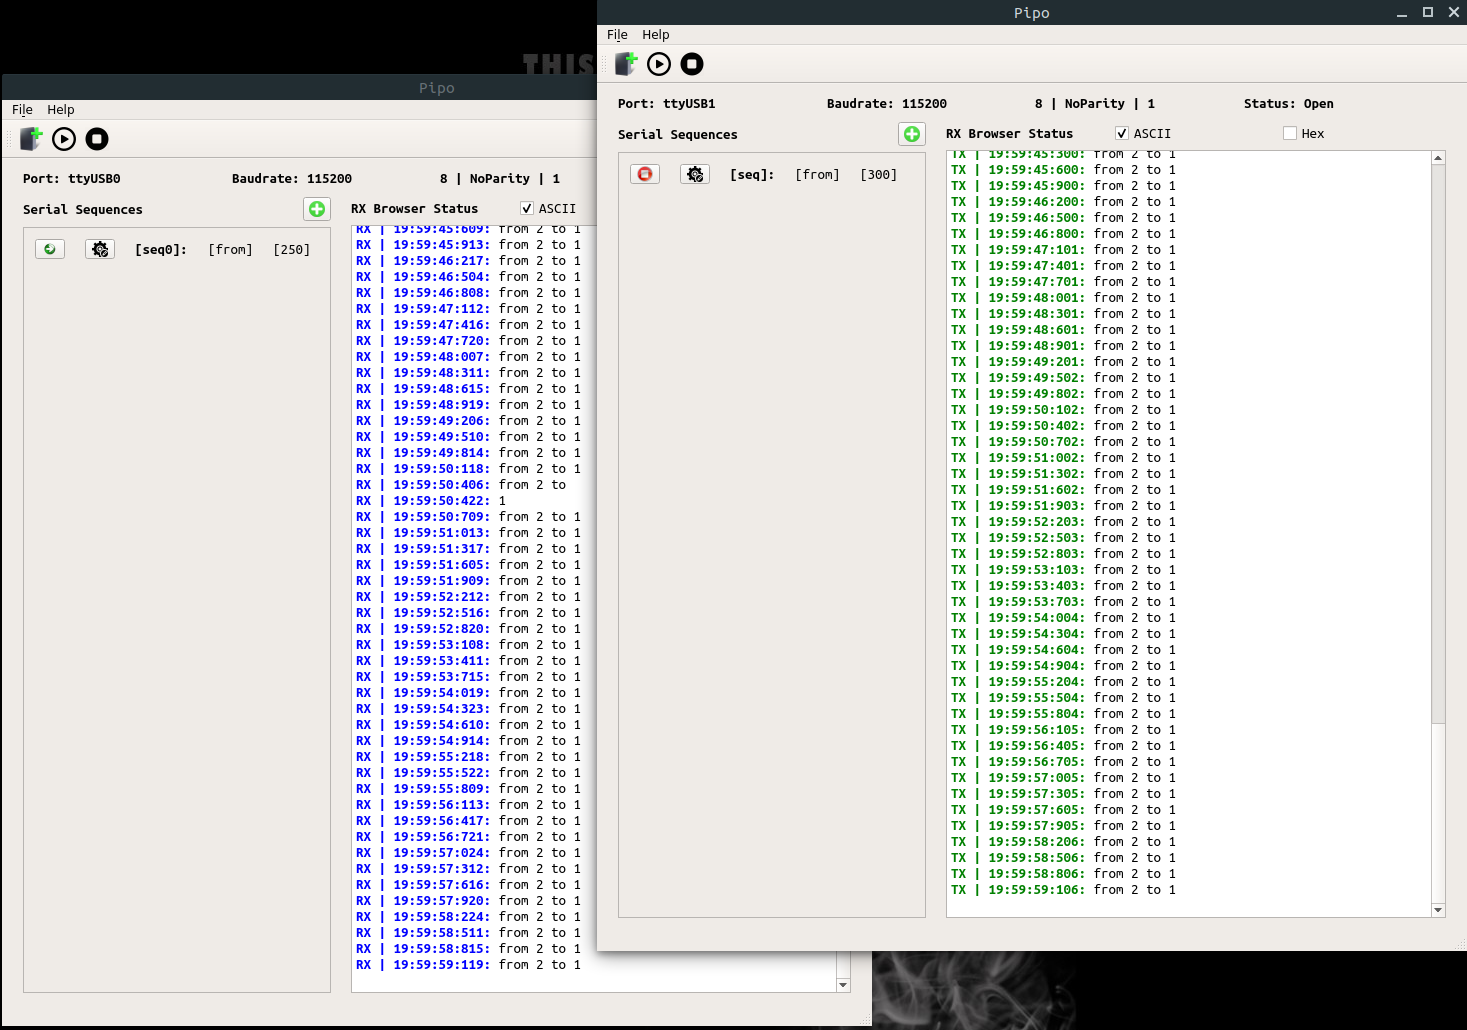
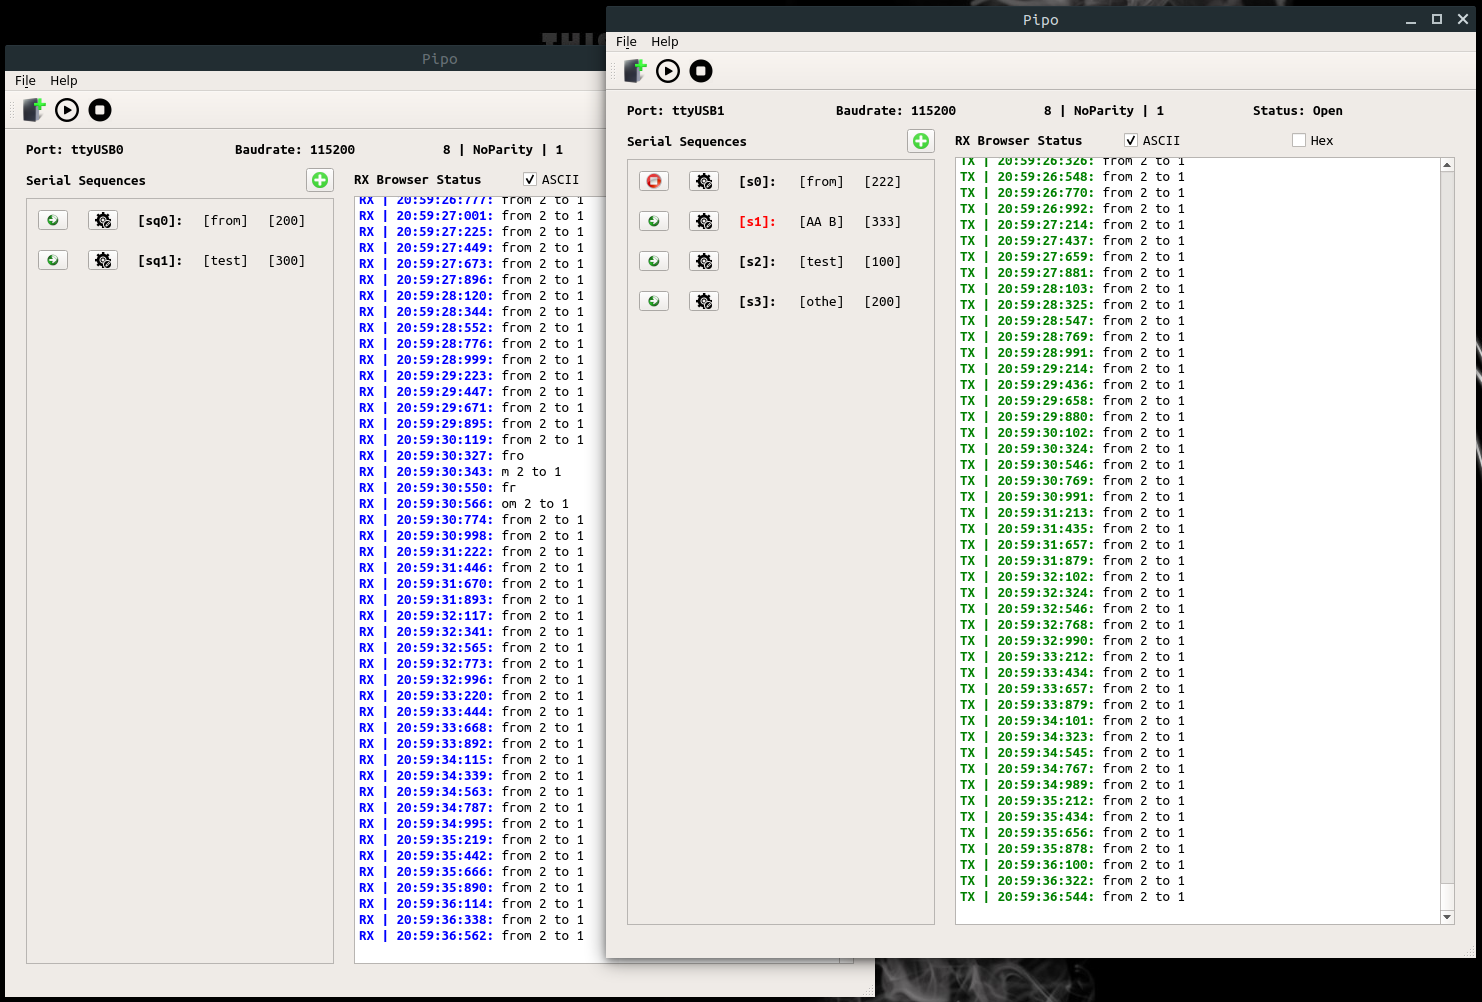
pipo ss is added

Changed region(s): [[0.0, 0.0, 1.0, 1.0], [0.8282, 0.0928, 0.9202, 0.1547], [0.5828, 0.2166, 0.6135, 0.3094]]

diff --git a/mainwindow.cpp b/mainwindow.cpp
@@ -201,7 +201,7 @@ void MainWindow::addHexSequence(const QString &seqName, const QString &seqDataAs
         }
         QString format("<font color=\"%1\"><b>[%2]:</b></font>");
 
-        currentSeq->labelName->setText(format.arg("black", seqName.left(MAX_VISIBLE_SEQ_DATA_LEN)));
+        currentSeq->labelName->setText(format.arg("red", seqName.left(MAX_VISIBLE_SEQ_DATA_LEN)));
         currentSeq->labelName->setToolTip(QString("Seq Name: %1").arg(seqName));
 
         currentSeq->labelData->setText("[" + seqDataAscii.left(MAX_VISIBLE_SEQ_DATA_LEN) + "]");
@@ -231,7 +231,7 @@ void MainWindow::addHexSequence(const QString &seqName, const QString &seqDataAs
     QFont mono("Ubuntu Mono", 11, QFont::Normal);
     QString format("<font color=\"%1\"><b>[%2]:</b></font>");
 
-    QLabel *lName = new QLabel(format.arg("black", seqName.left(MAX_VISIBLE_SEQ_DATA_LEN)), this);
+    QLabel *lName = new QLabel(format.arg("red", seqName.left(MAX_VISIBLE_SEQ_DATA_LEN)), this);
     lName->setSizePolicy(QSizePolicy::Minimum, QSizePolicy::Preferred);
     lName->setMinimumWidth(40);
     lName->setFont(mono);
